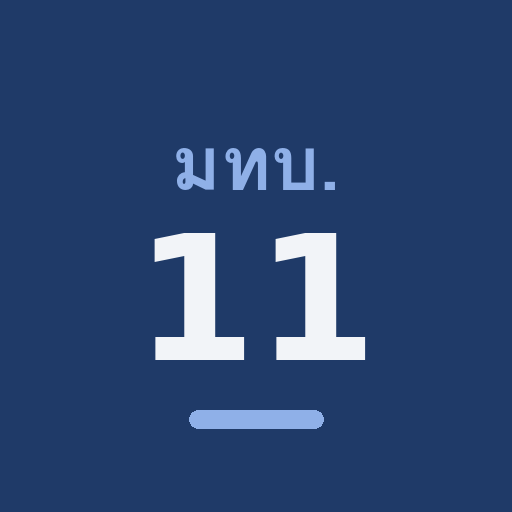
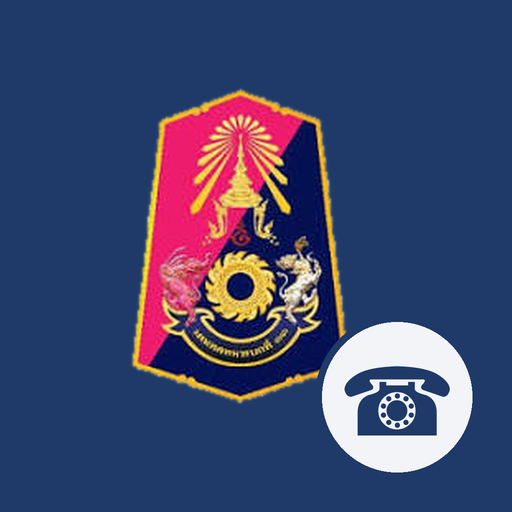
เปลี่ยนไอคอนเป็นตราหน่วยพร้อมสัญลักษณ์โทรศัพท์
Claude-Session: https://claude.ai/code/session_01Dhpse5KJ31qPoTu6MzuLL8

Changed region(s): [[0.25, 0.1562, 0.9375, 0.9375]]

diff --git a/sw.js b/sw.js
@@ -1,4 +1,4 @@
-const C='phonebook-v4';
+const C='phonebook-v5';
 const CORE=['./','index.html','manifest.json','icon-192.png','icon-512.png','apple-touch-icon.png'];
 self.addEventListener('install',e=>{e.waitUntil(caches.open(C).then(c=>c.addAll(CORE)));self.skipWaiting()});
 self.addEventListener('activate',e=>{e.waitUntil(caches.keys().then(k=>Promise.all(k.filter(x=>x!==C).map(x=>caches.delete(x)))));self.clients.claim()});
